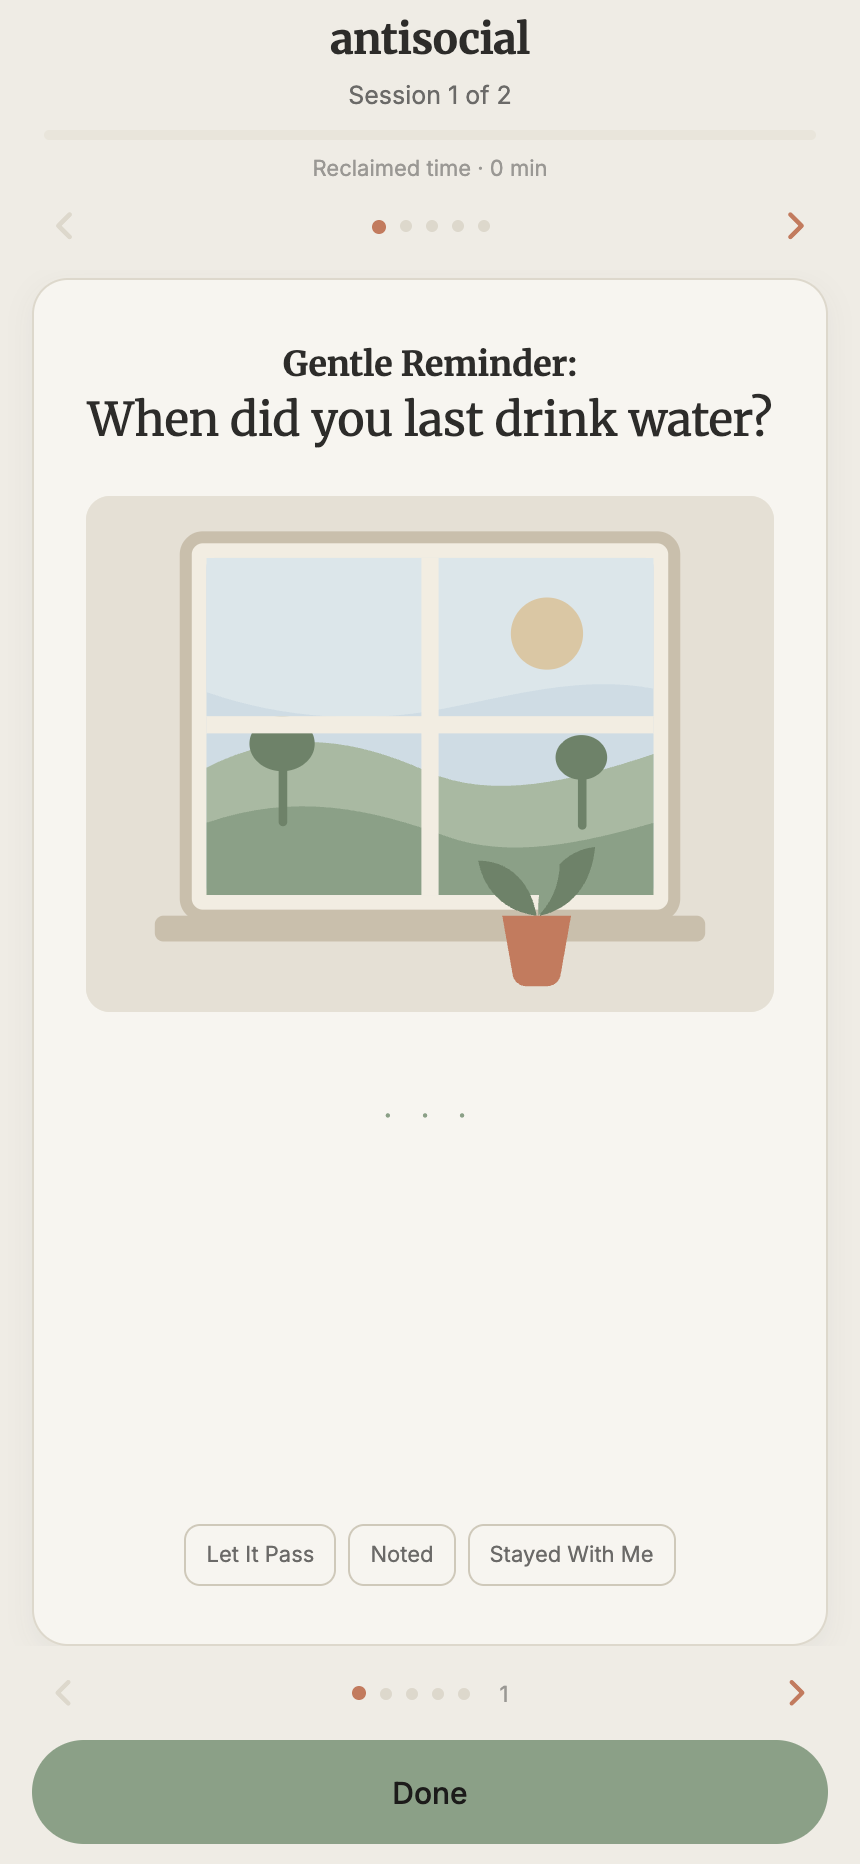
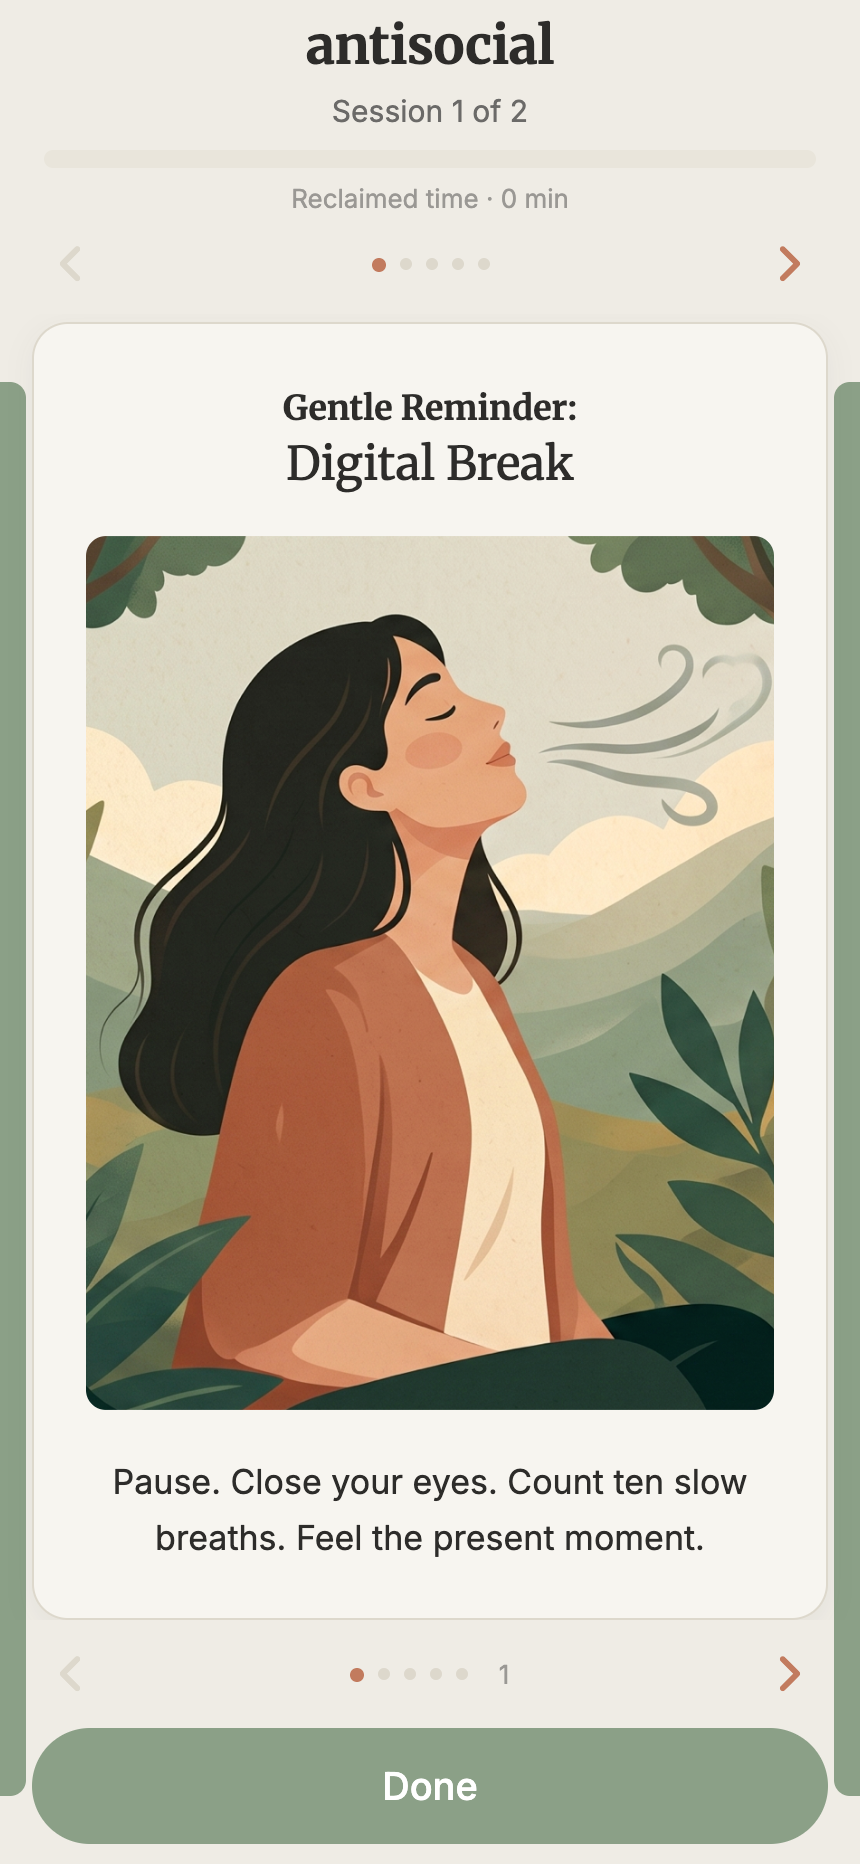
feat(trial): Gentle Reminder rebuilt to the swipe reference
Matched against the zoomed reference rather than approximated:
- reaction pills removed — the reference has none on this card type, and
  the footer button is now the only action
- title is category + line, centred, bold serif over regular serif
- the pause illustration, cropped out of its blob mask so the card frames
  a clean rectangle instead of showing the mask's wavy cream edge
- body copy larger, darker and centred; it is the only prose on the screen
- action is white on sage, 58pt, pill radius; progress bar thickened to 9pt;
  pager chevrons up to 26pt
- sage rails at both screen edges, so the neighbouring cards peek through
  and the deck reads as a deck

Card spans 161..810 with the action at 882 on a 932pt viewport.
Only almost_nothing renders this; the other fifteen types are untouched.

Claude-Session: https://claude.ai/code/session_015XCKsXJVP7JzeYtb9Jzavo

diff --git a/frontend/components/AlmostNothingCard.tsx b/frontend/components/AlmostNothingCard.tsx
@@ -1,9 +1,7 @@
-import React, { useState } from 'react';
-import { View, StyleSheet, TouchableOpacity } from 'react-native';
+import React from 'react';
+import { View, StyleSheet, Image } from 'react-native';
 import Text from './AppText';
-import ReactionButtons from './ReactionButtons';
-import CardArt from './CardArt';
-import { cards, stageType, colors } from '../lib/theme';
+import { cards, stageType } from '../lib/theme';
 
 interface AlmostNothingCardProps {
   content: {
@@ -11,72 +9,48 @@ interface AlmostNothingCardProps {
   };
 }
 
-// TRIAL CARD — the only card on the swipe-mockup treatment so far.
+// Built to the swipe reference, and the only card on that treatment so far.
 //
-// What changed against the rest of the feed: the card fills its page rather
-// than hugging its text, the uppercase eyebrow is replaced by the mockup's
-// two-line centred serif title, and everything inside is centred. The
-// action that used to be a row of reaction pills is now the bottom-anchored
-// pill button the reference has.
+// Against the rest of the feed: no uppercase eyebrow and no reaction pills —
+// the reference has neither, and the action now lives in the footer button.
+// The illustration takes whatever height is left between the title and the
+// body, so the card fills its page on a tall screen without a hole in it.
 export default function AlmostNothingCard({ content }: AlmostNothingCardProps) {
-  const reactions = ['Let It Pass', 'Noted', 'Stayed With Me'];
-
-  // First line is the nudge; the rest makes it land. Staged reveal: the
-  // rest waits behind a quiet tap, so the first line gets a beat to itself.
   const [firstLine, ...restLines] = content.text.split('\n');
   const rest = restLines.join('\n').trim();
-  const [unfolded, setUnfolded] = useState(false);
 
   return (
     <View style={cards.stage}>
       <Text style={stageType.eyebrow}>Gentle Reminder:</Text>
       <Text style={stageType.headline}>{firstLine}</Text>
 
-      <View style={styles.art}>
-        <CardArt name="window" />
+      <View style={styles.artFrame}>
+        <Image
+          source={require('../assets/art/pause-woman.png')}
+          style={styles.art}
+          resizeMode="cover"
+        />
       </View>
 
-      {rest.length > 0 && !unfolded && (
-        <TouchableOpacity
-          style={styles.unfoldRow}
-          onPress={() => setUnfolded(true)}
-          activeOpacity={0.7}
-        >
-          <Text style={styles.unfoldText}>· · ·</Text>
-        </TouchableOpacity>
-      )}
-      {rest.length > 0 && unfolded && <Text style={stageType.body}>{rest}</Text>}
-
-      {/* The spacer is what pins the reactions to the bottom of the card
-          however tall the text above happens to be. */}
-      <View style={styles.spacer} />
-
-      <View style={styles.reactions}>
-        <ReactionButtons reactions={reactions} />
-      </View>
+      {rest.length > 0 && <Text style={stageType.body}>{rest}</Text>}
     </View>
   );
 }
 
 const styles = StyleSheet.create({
-  art: {
-    marginTop: 22,
-    marginBottom: 20,
-  },
-  spacer: {
+  // flex:1 here is what absorbs the leftover height, so the title sits at
+  // the top and the body at the bottom with the picture stretching between
+  // them — rather than the card growing a gap under fixed-height content.
+  artFrame: {
     flex: 1,
-    minHeight: 8,
+    marginTop: 20,
+    marginBottom: 22,
+    borderRadius: 10,
+    overflow: 'hidden',
+    minHeight: 180,
   },
-  reactions: {
-    alignItems: 'center',
-  },
-  unfoldRow: {
-    paddingVertical: 6,
-    alignItems: 'center',
-  },
-  unfoldText: {
-    fontSize: 15,
-    letterSpacing: 5,
-    color: colors.sage,
+  art: {
+    width: '100%',
+    height: '100%',
   },
 });

diff --git a/frontend/components/StageFooter.tsx b/frontend/components/StageFooter.tsx
@@ -27,7 +27,7 @@ export default function StageFooter({
     <View style={styles.wrap}>
       <View style={styles.pager}>
         <TouchableOpacity onPress={onPrev} disabled={index === 0} hitSlop={HIT}>
-          <Ionicons name="chevron-back" size={19}
+          <Ionicons name="chevron-back" size={26}
             color={index === 0 ? colors.line : colors.clay} />
         </TouchableOpacity>
 
@@ -39,7 +39,7 @@ export default function StageFooter({
         </View>
 
         <TouchableOpacity onPress={onNext} disabled={index >= count - 1} hitSlop={HIT}>
-          <Ionicons name="chevron-forward" size={19}
+          <Ionicons name="chevron-forward" size={26}
             color={index >= count - 1 ? colors.line : colors.clay} />
         </TouchableOpacity>
       </View>
@@ -58,7 +58,7 @@ export default function StageFooter({
 const HIT = { top: 12, bottom: 12, left: 12, right: 12 };
 
 const TONES = {
-  sage: { box: { backgroundColor: colors.sage }, text: { color: '#1C1B1A' } },
+  sage: { box: { backgroundColor: colors.sage }, text: { color: '#FFFFFF' } },
   clay: { box: { backgroundColor: colors.clay }, text: { color: '#FAF8F4' } },
   ink: { box: { backgroundColor: colors.ink }, text: { color: colors.surface } },
 } as const;
@@ -94,20 +94,20 @@ const styles = StyleSheet.create({
     backgroundColor: colors.clay,
   },
   count: {
-    fontSize: 11,
+    fontSize: 13,
     color: colors.muted,
     marginLeft: 8,
   },
   // The reference's action is a full-width lozenge, not a rounded
   // rectangle — the radius is half the height.
   cta: {
-    height: 52,
-    borderRadius: 26,
+    height: 58,
+    borderRadius: 29,
     alignItems: 'center',
     justifyContent: 'center',
   },
   ctaText: {
-    fontSize: 15,
+    fontSize: 19,
     fontWeight: '500',
   },
 });

diff --git a/frontend/components/SessionChrome.tsx b/frontend/components/SessionChrome.tsx
@@ -60,7 +60,7 @@ export default function SessionChrome({
         >
           <Ionicons
             name="chevron-back"
-            size={20}
+            size={26}
             color={index === 0 ? colors.line : colors.clay}
           />
         </TouchableOpacity>
@@ -82,7 +82,7 @@ export default function SessionChrome({
         >
           <Ionicons
             name="chevron-forward"
-            size={20}
+            size={26}
             color={index >= count - 1 ? colors.line : colors.clay}
           />
         </TouchableOpacity>
@@ -100,30 +100,30 @@ const styles = StyleSheet.create({
   },
   wordmark: {
     fontFamily: fonts.serif,
-    fontSize: 21,
+    fontSize: 26,
     color: colors.ink,
     letterSpacing: -0.2,
   },
   session: {
-    fontSize: 12.5,
+    fontSize: 15,
     color: colors.body,
     marginTop: 7,
   },
   track: {
     width: '100%',
-    height: 5,
-    borderRadius: 3,
+    height: 9,
+    borderRadius: 5,
     backgroundColor: colors.surfaceTinted,
     marginTop: 10,
     overflow: 'hidden',
   },
   fill: {
     height: '100%',
-    borderRadius: 3,
+    borderRadius: 5,
     backgroundColor: colors.sage,
   },
   time: {
-    fontSize: 11,
+    fontSize: 13,
     color: colors.muted,
     marginTop: 7,
   },

diff --git a/frontend/app/index.tsx b/frontend/app/index.tsx
@@ -37,7 +37,7 @@ import { GAMES } from '../data/games';
 import { WRITING_PROMPTS } from '../data/writingPrompts';
 import { pickPrompt } from '../lib/notebook';
 import { MISSIONS } from '../data/missions';
-import { cards, colors, type } from '../lib/theme';
+import { cards, colors, type, rails } from '../lib/theme';
 import { addMinute, minutesUsedToday, DAILY_LIMIT_MINUTES } from '../lib/usage';
 import { hasSessionsLeftToday, consumeSession } from '../lib/quota';
 import { getSeenIds, markSeen } from '../lib/seen';
@@ -609,6 +609,12 @@ export default function Index() {
               const staged = item.type === 'almost_nothing';
               return (
                 <View key={item.id} style={{ width, flex: 1 }}>
+                  {staged && (
+                    <>
+                      <View style={[rails.rail, rails.left]} pointerEvents="none" />
+                      <View style={[rails.rail, rails.right]} pointerEvents="none" />
+                    </>
+                  )}
                   {/* A ScrollView sizes to its content unless it is given a
                       definite height, so the staged page needs flex:1 on the
                       view itself — flexGrow on the content container alone

diff --git a/frontend/lib/theme.ts b/frontend/lib/theme.ts
@@ -191,10 +191,28 @@ export const stageType = StyleSheet.create({
     color: colors.ink,
     textAlign: 'center',
   } as TextStyle,
+  // Bigger and darker than the feed's body copy. On the staged card this is
+  // the only prose on the screen, so it carries the card rather than
+  // supporting a headline above it.
   body: {
-    fontSize: 15,
-    lineHeight: 26,
-    color: colors.body,
+    fontSize: 17,
+    lineHeight: 28,
+    color: colors.ink,
     textAlign: 'center',
   } as TextStyle,
+});
+
+// The neighbouring cards, showing at the screen edges. They are what makes
+// the deck read as a deck rather than as one card at a time — the reference
+// shows a sliver of the next card on each side.
+export const rails = StyleSheet.create({
+  rail: {
+    position: 'absolute',
+    top: 34,
+    bottom: 34,
+    width: 13,
+    backgroundColor: colors.sage,
+  },
+  left: { left: 0, borderTopRightRadius: 8, borderBottomRightRadius: 8 },
+  right: { right: 0, borderTopLeftRadius: 8, borderBottomLeftRadius: 8 },
 });
